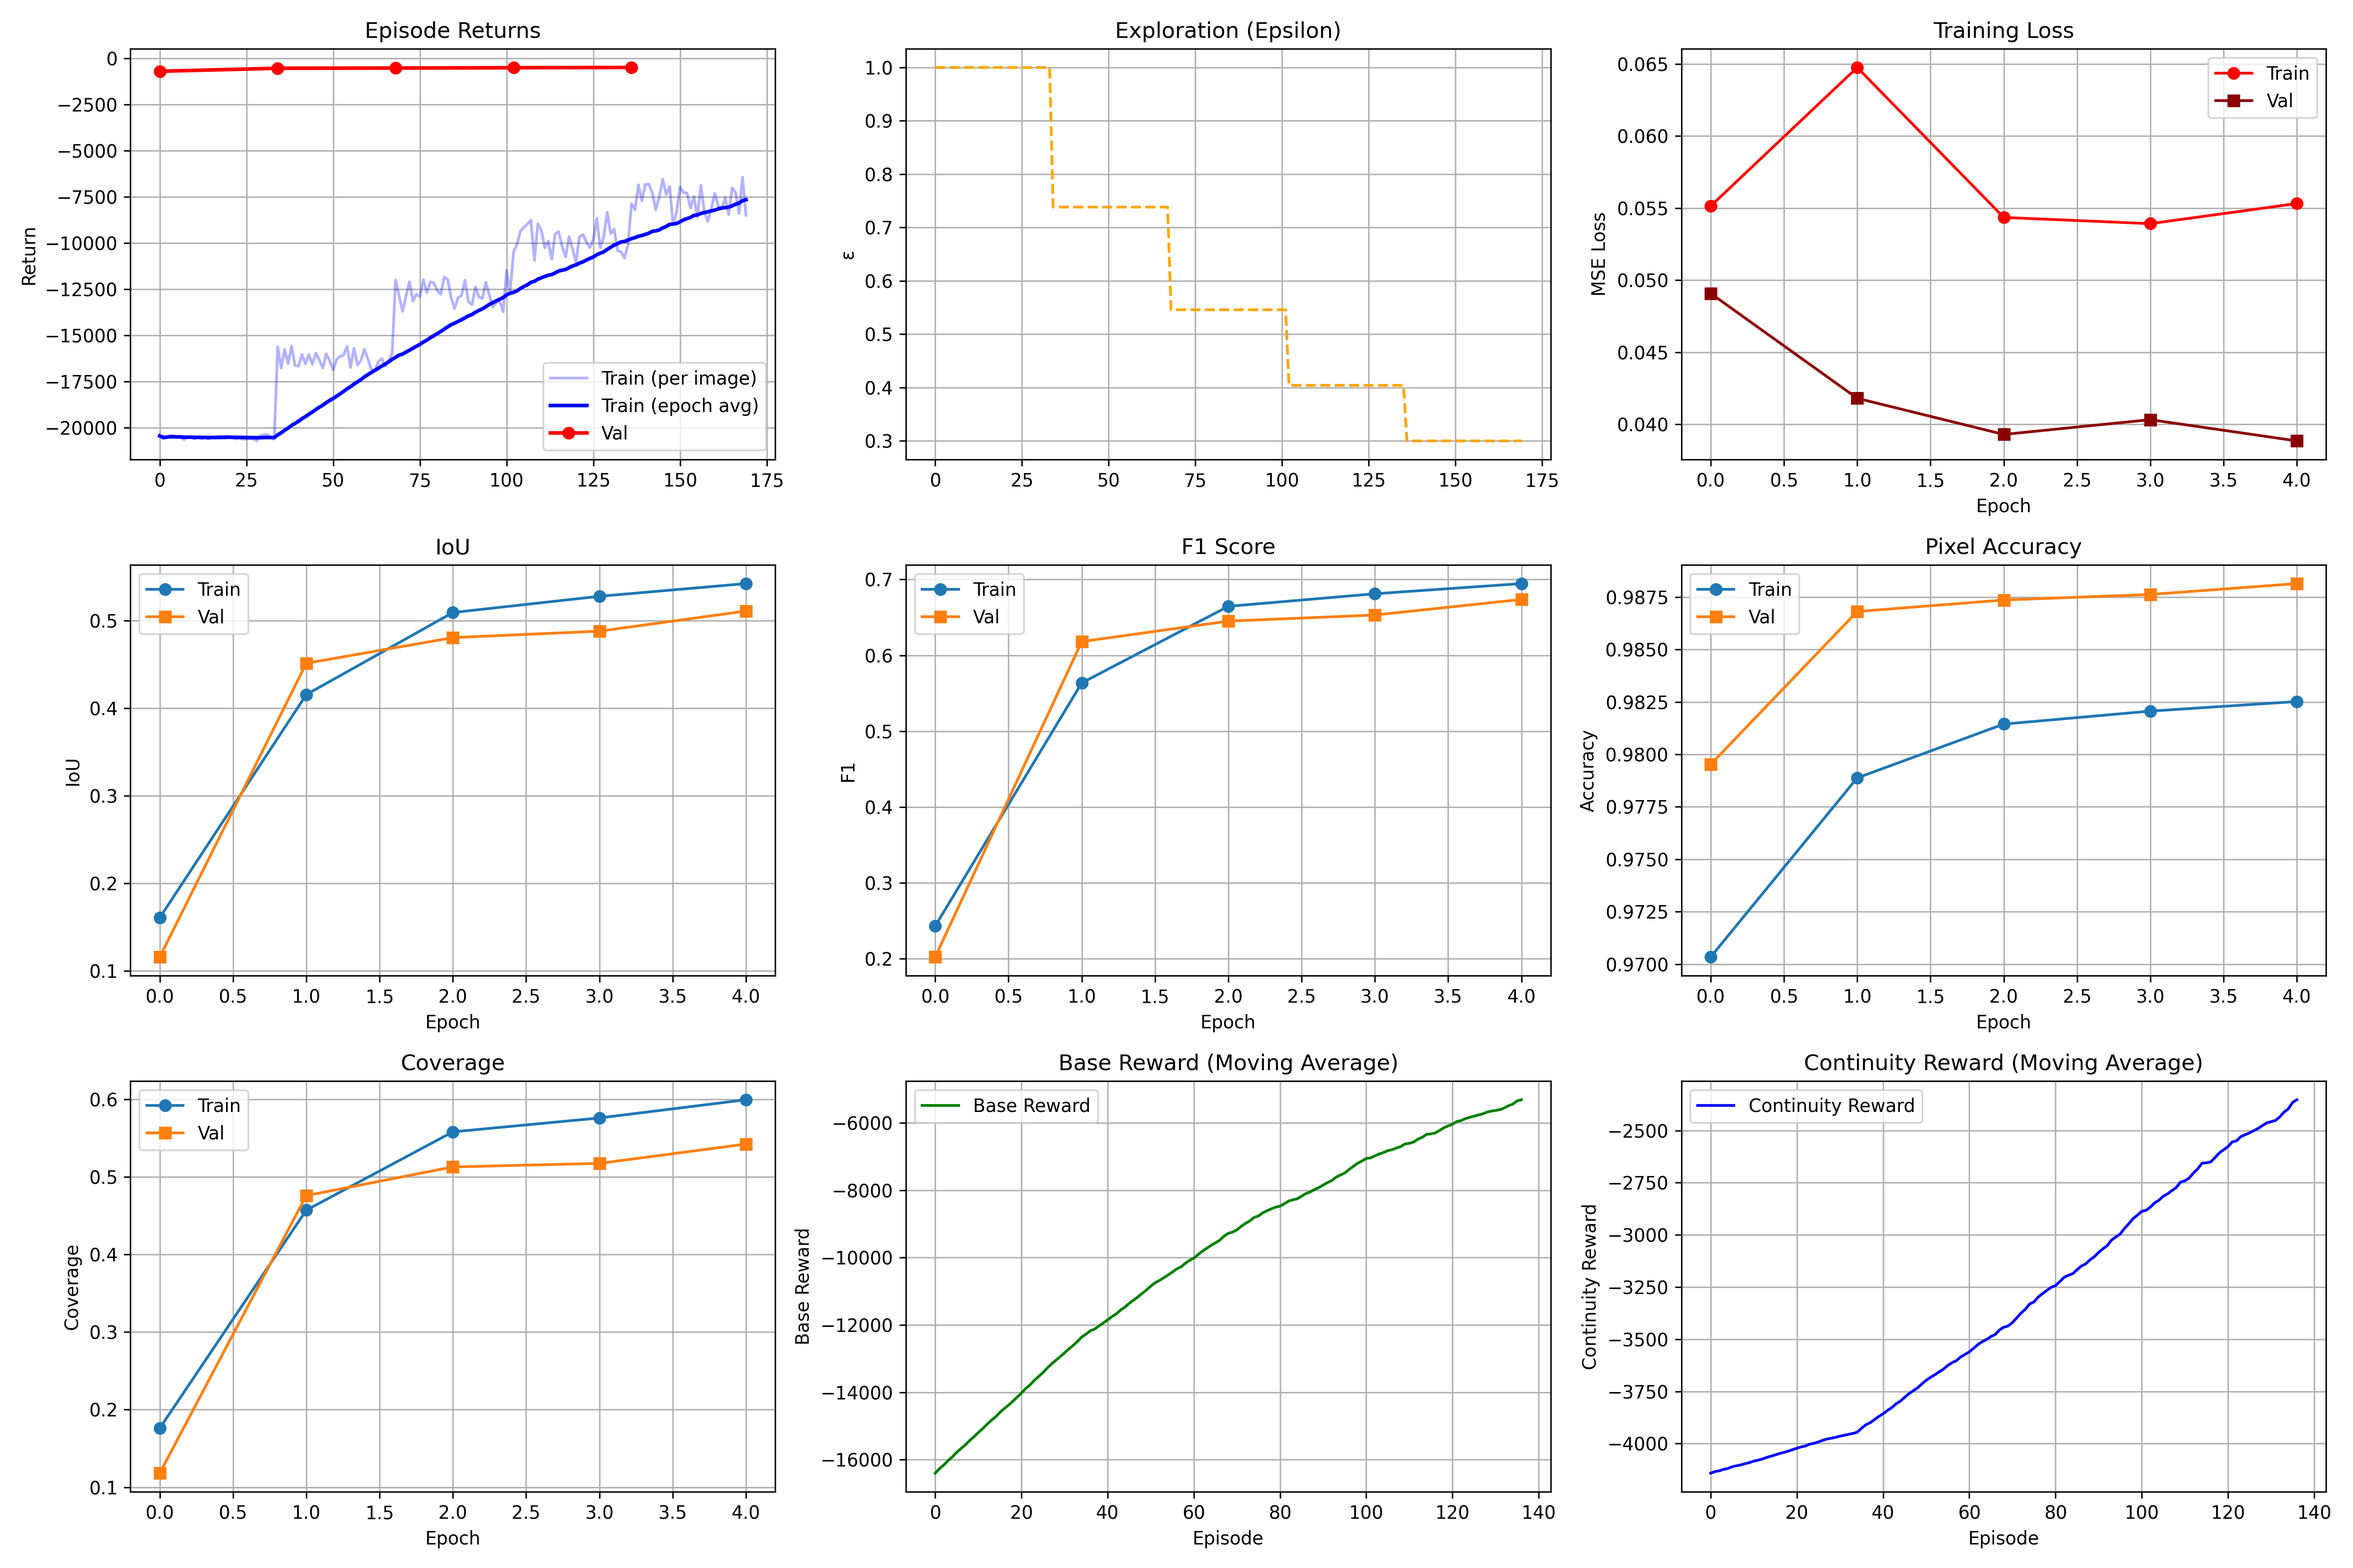
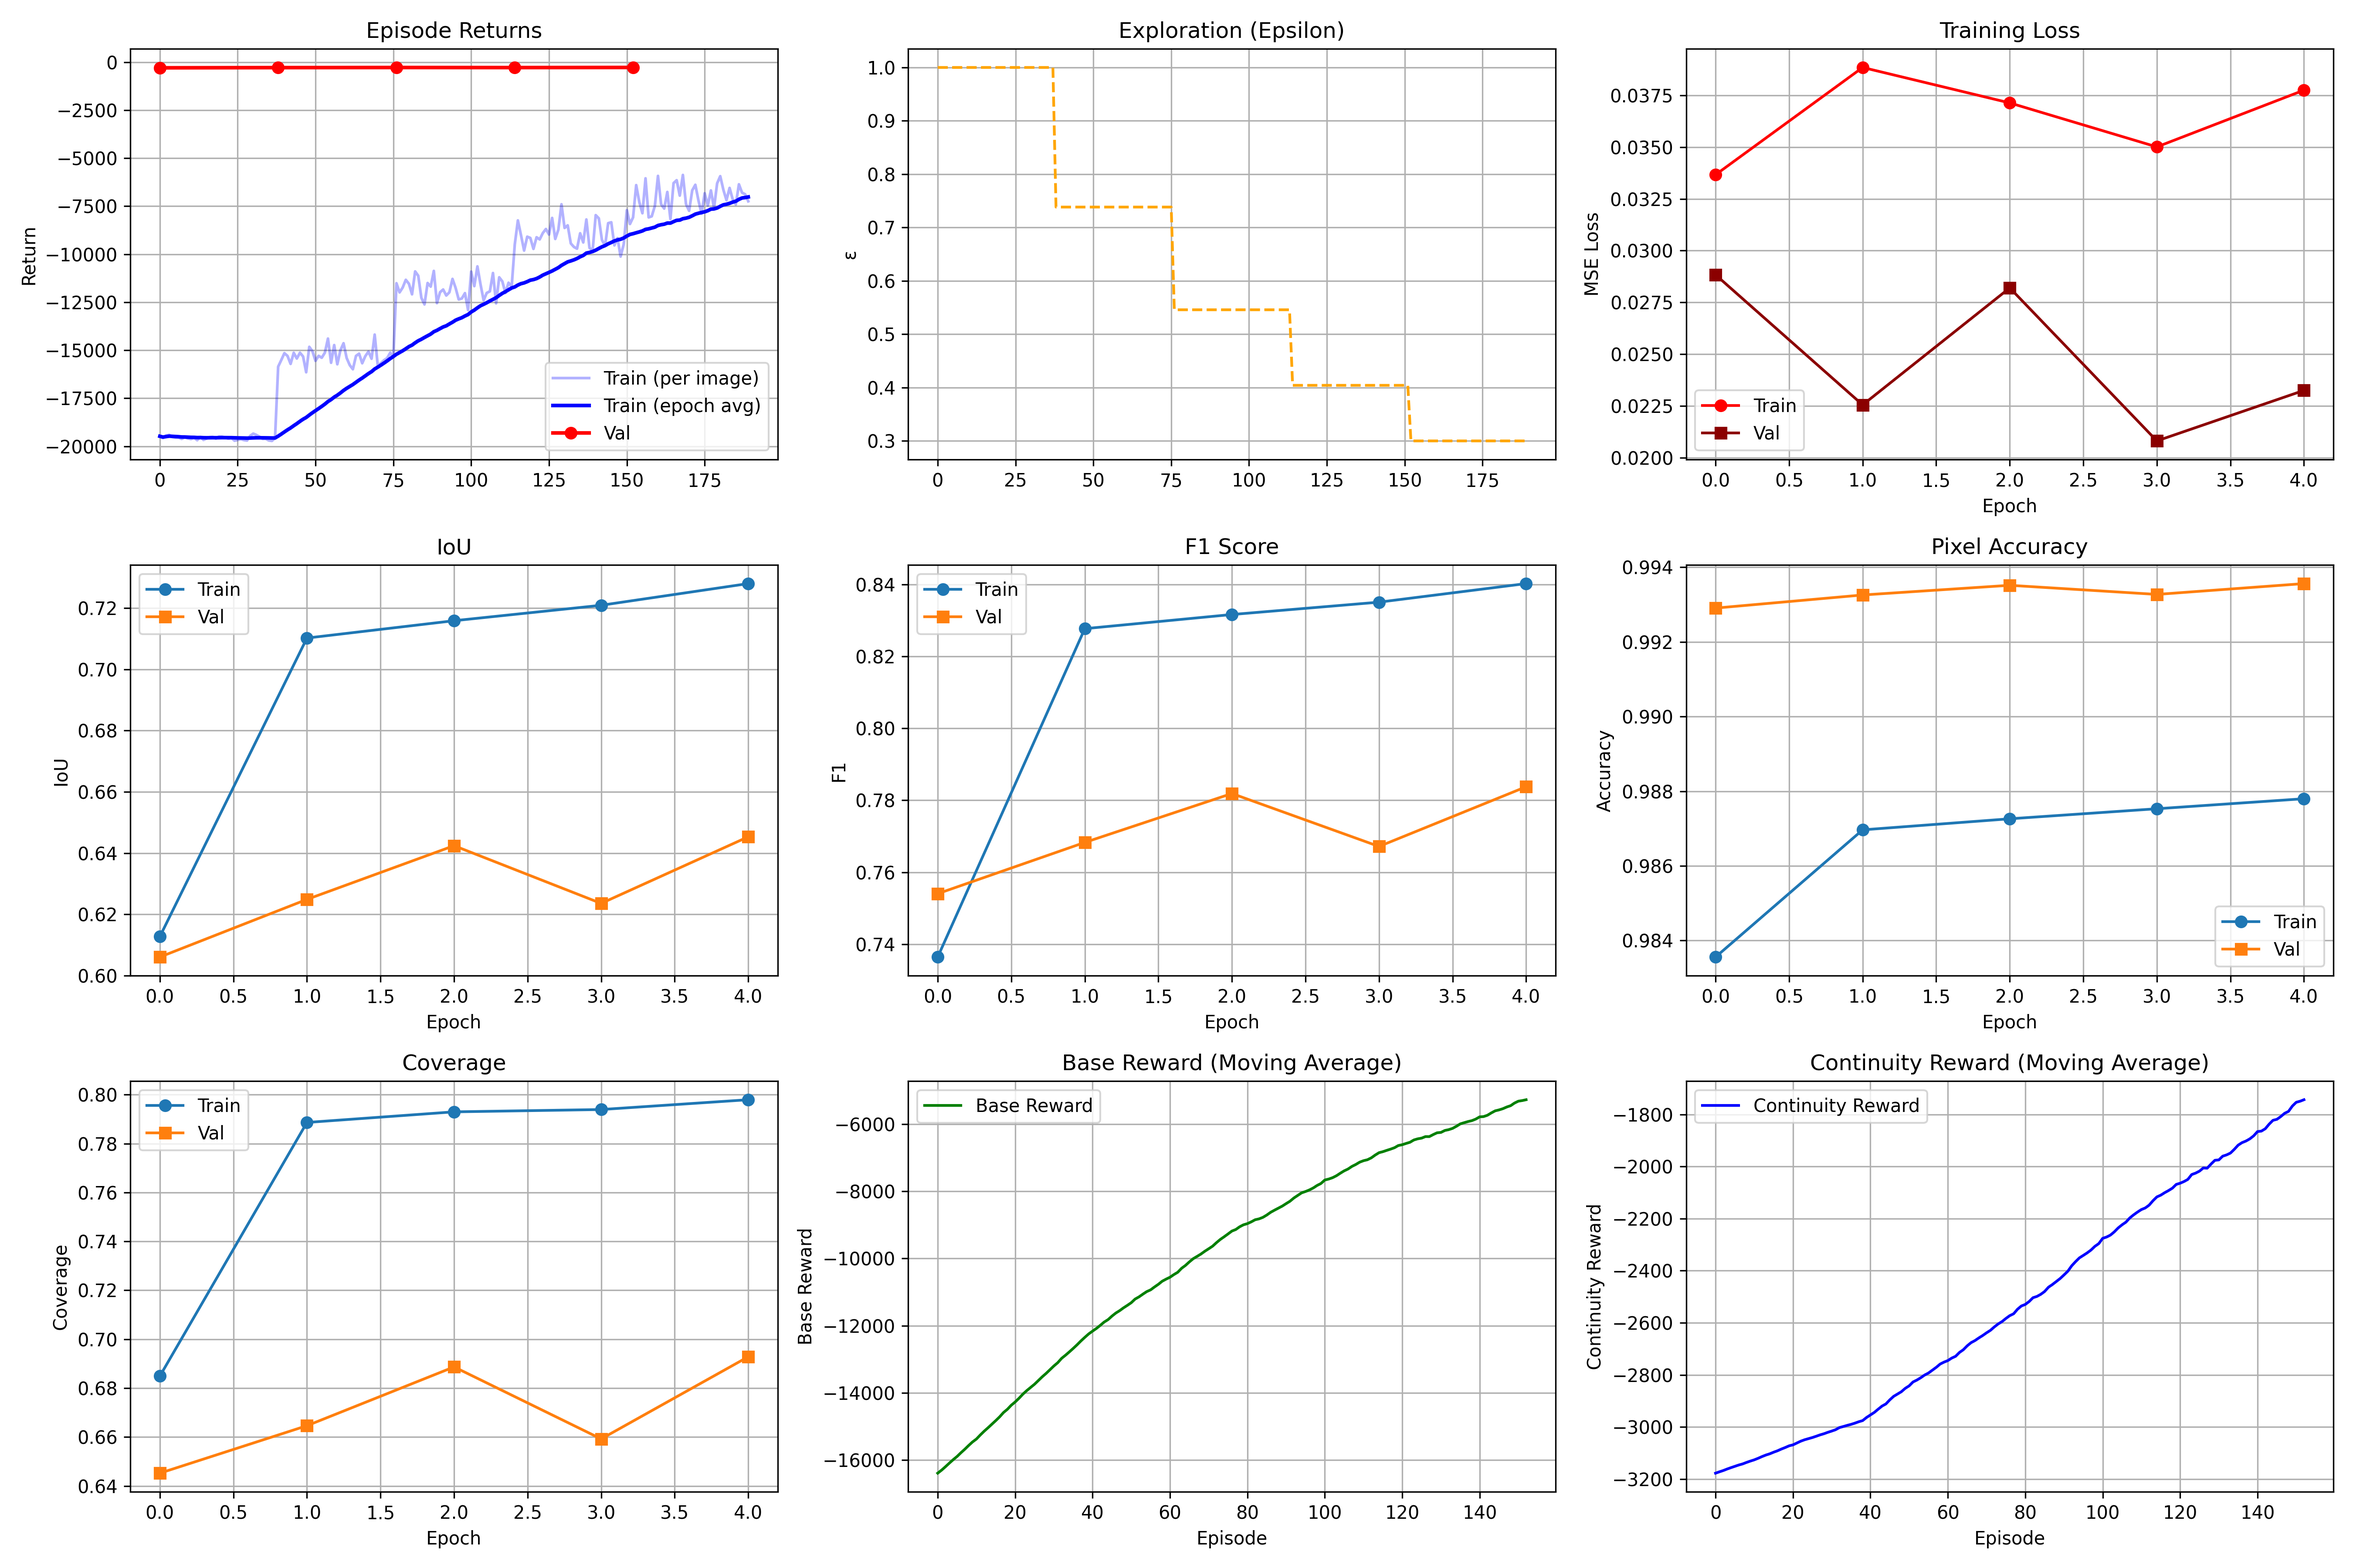
network takes previous rows instead of previous predictions

diff --git a/codebase/dqn_row_based/env.py b/codebase/dqn_row_based/env.py
@@ -38,6 +38,7 @@ class PathReconstructionEnv(gym.Env):
         self.action_space = spaces.MultiBinary(self.W)
         self.observation_space = spaces.Dict({
             "row_pixels": spaces.Box(0.0, 1.0, shape=(self.W, self.C), dtype=np.float32),
+            "prev_preds": spaces.Box(0.0, 1.0, shape=(self.history_len, self.W), dtype=np.float32),
             "prev_rows": spaces.Box(0.0, 1.0, shape=(self.history_len, self.W, self.C), dtype=np.float32),
             "row_index": spaces.Box(0.0, 1.0, shape=(1,), dtype=np.float32),
         })
@@ -59,6 +60,7 @@ class PathReconstructionEnv(gym.Env):
         row = self._row_order[self.current_row_idx]
         return {
             "row_pixels": self.image[row],  # shape (W, C)
+            "prev_preds": np.array(self.prev_preds_buffer, dtype=np.float32),  # (history_len, W)
             "prev_rows": np.array(self.prev_rows_buffer, dtype=np.float32),  # (history_len, W, C)
             "row_index": np.array([(row + 1) / self.H], dtype=np.float32),
         }
@@ -137,6 +139,7 @@ class PathReconstructionEnv(gym.Env):
         # After last row, return a zeroed observation (won't be used)
         return {
             "row_pixels": np.zeros((self.W, self.C), dtype=np.float32),
+            "prev_preds": np.array(self.prev_preds_buffer, dtype=np.float32),
             "prev_rows": np.array(self.prev_rows_buffer, dtype=np.float32),
             "row_index": np.array([1.0], dtype=np.float32),
         }

diff --git a/codebase/dqn_row_based/dqn.py b/codebase/dqn_row_based/dqn.py
@@ -14,6 +14,7 @@ def obs_to_tensor(obs, device, as_tensor = False):
 
     return {
         "row_pixels": torch.tensor(obs["row_pixels"], dtype=torch.float32, device=device),
+        "prev_preds": torch.tensor(obs["prev_preds"], dtype=torch.float32, device=device),
         "prev_rows": torch.tensor(obs["prev_rows"], dtype=torch.float32, device=device),
         "row_index": torch.tensor(obs["row_index"], dtype=torch.float32, device=device),
     }
@@ -21,10 +22,12 @@ def obs_to_tensor(obs, device, as_tensor = False):
 def batch_obs_to_tensor(obs_list, device):
     """Convert list of observations to batched tensors efficiently."""
     row_pixels = torch.tensor(np.stack([o["row_pixels"] for o in obs_list]), dtype=torch.float32, device=device)
+    prev_preds = torch.tensor(np.stack([o["prev_preds"] for o in obs_list]), dtype=torch.float32, device=device)
     prev_rows = torch.tensor(np.stack([o["prev_rows"] for o in obs_list]), dtype=torch.float32, device=device)
     row_index = torch.tensor(np.stack([o["row_index"] for o in obs_list]), dtype=torch.float32, device=device)
     return {
         "row_pixels": row_pixels,
+        "prev_preds": prev_preds,
         "prev_rows": prev_rows,
         "row_index": row_index,
     }

diff --git a/codebase/dqn_row_based/main.py b/codebase/dqn_row_based/main.py
@@ -421,7 +421,7 @@ if __name__ == "__main__":
     else:
         # intermediate_dir = "noise_only"
         # intermediate_dir = "data/ct_like/2d"
-        intermediate_dir = "l_systems_builder/l_systems_2d/dataset"
+        intermediate_dir = "data/ct_like/2d/continuous"
         
     train_data_dir = os.path.join(intermediate_dir, "train")
     val_data_dir = os.path.join(intermediate_dir, "val")
@@ -463,8 +463,8 @@ if __name__ == "__main__":
         device="cuda" if torch.cuda.is_available() else "cpu"
     )
 
-    img_test = cv2.imread(os.path.join(val_data_dir, "bush_root_var1_ct.png"), cv2.IMREAD_GRAYSCALE)
-    mask_test = cv2.imread(os.path.join(val_data_dir, "bush_root_var1_mask.png"), cv2.IMREAD_GRAYSCALE)
+    img_test = cv2.imread(os.path.join(val_data_dir, "taproot_branched_var3_ct.png"), cv2.IMREAD_GRAYSCALE)
+    mask_test = cv2.imread(os.path.join(val_data_dir, "taproot_branched_var3_mask.png"), cv2.IMREAD_GRAYSCALE)
 
     pred = reconstruct_image(results["policy_net"], img_test, mask_test)
 
